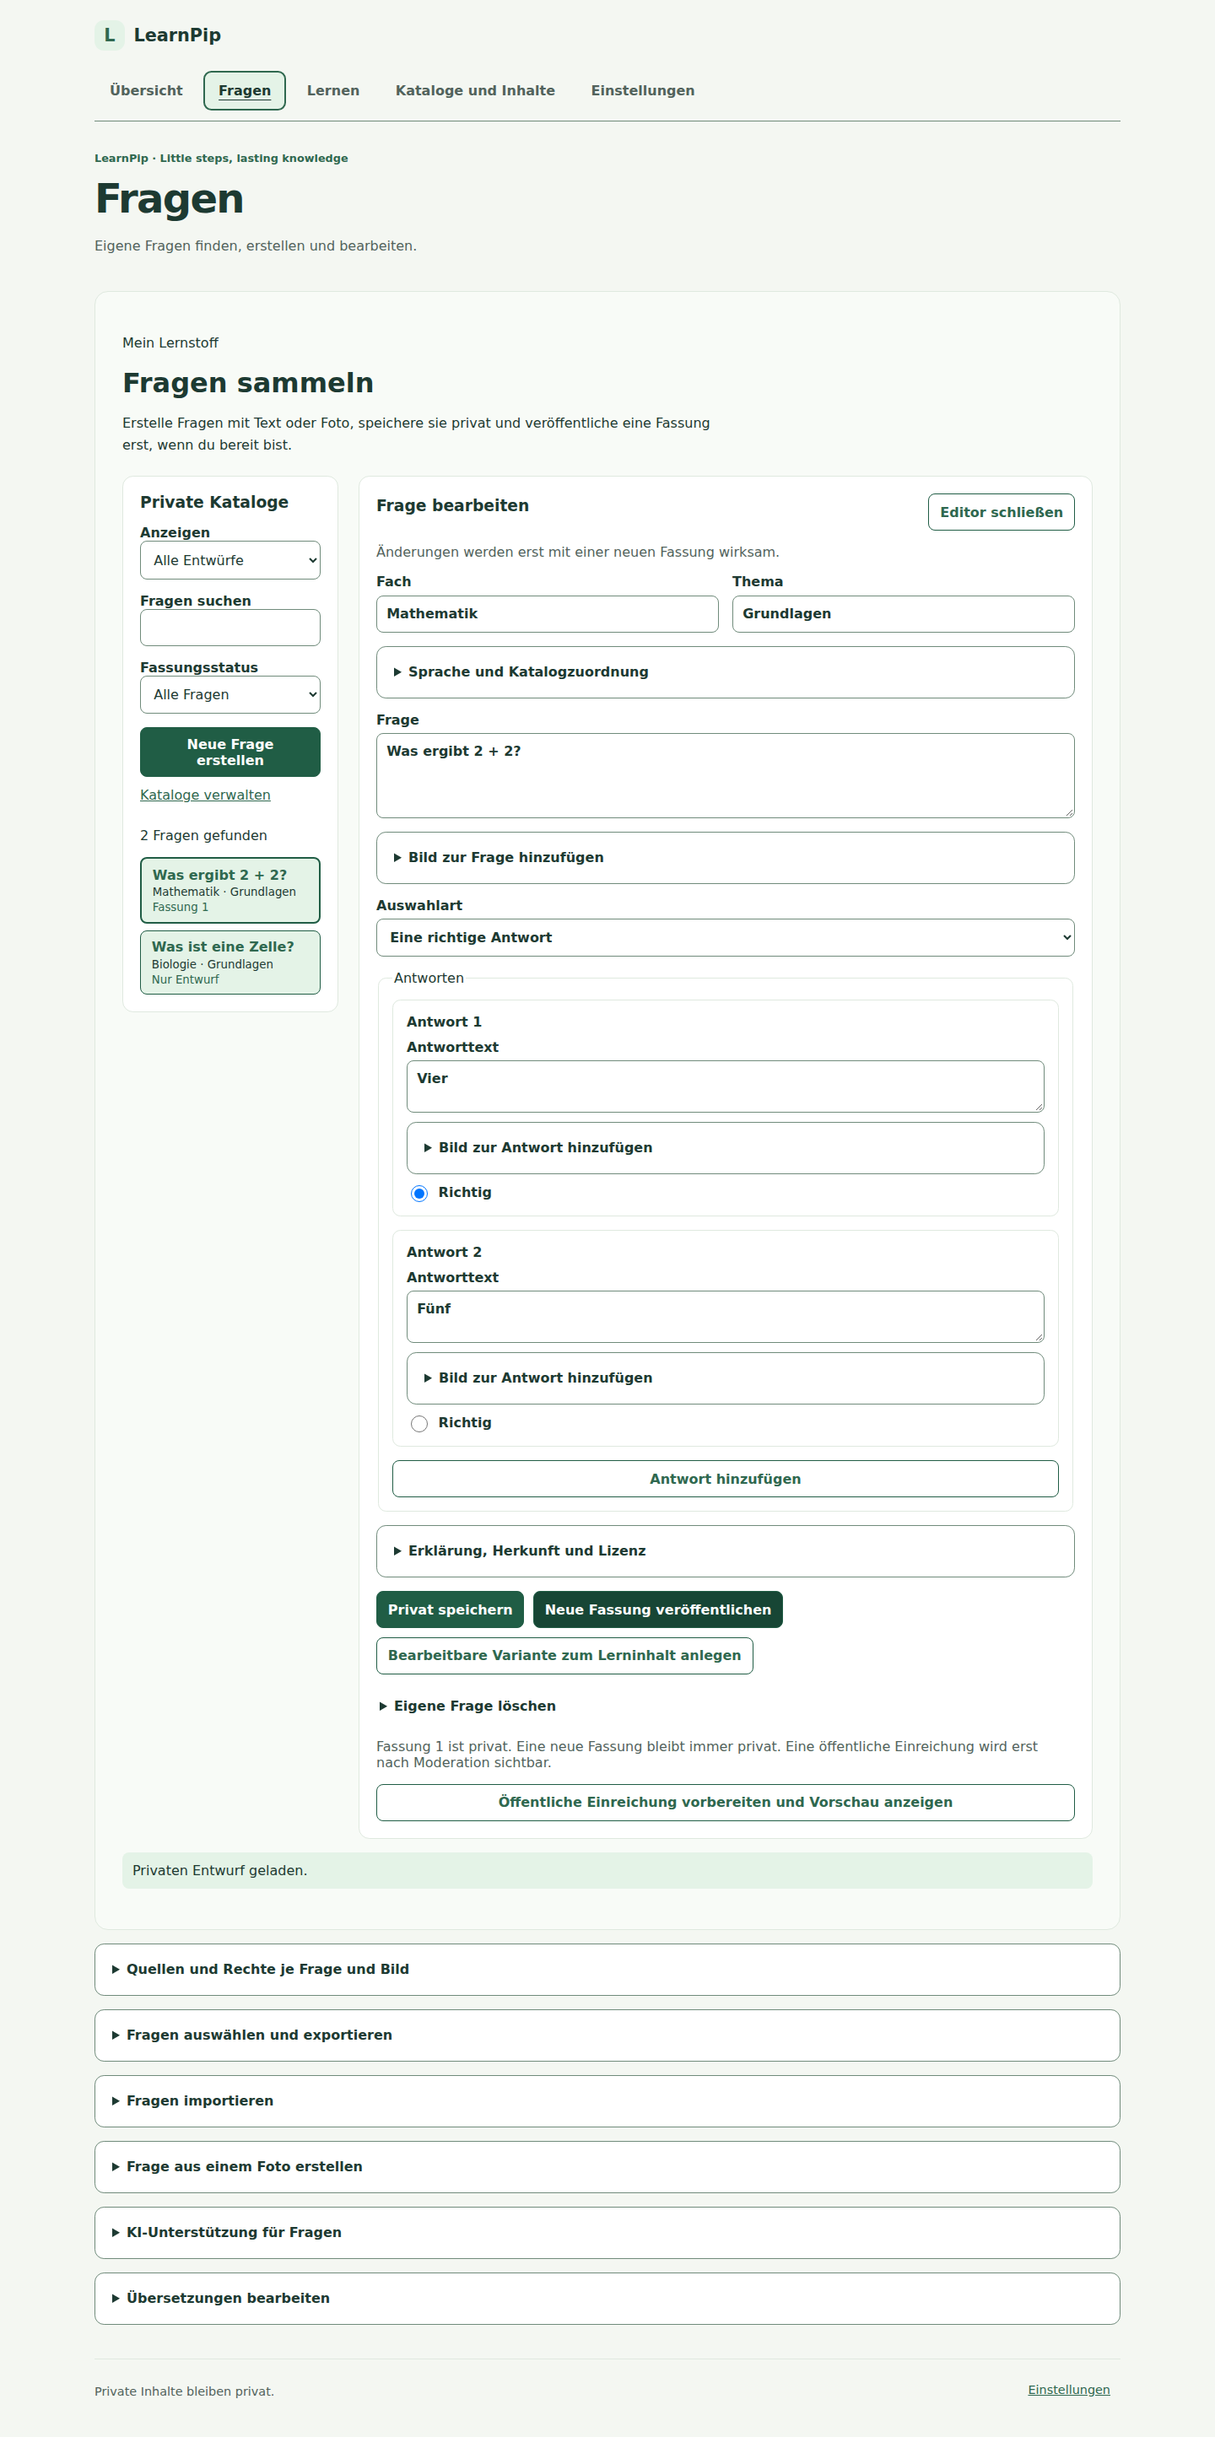
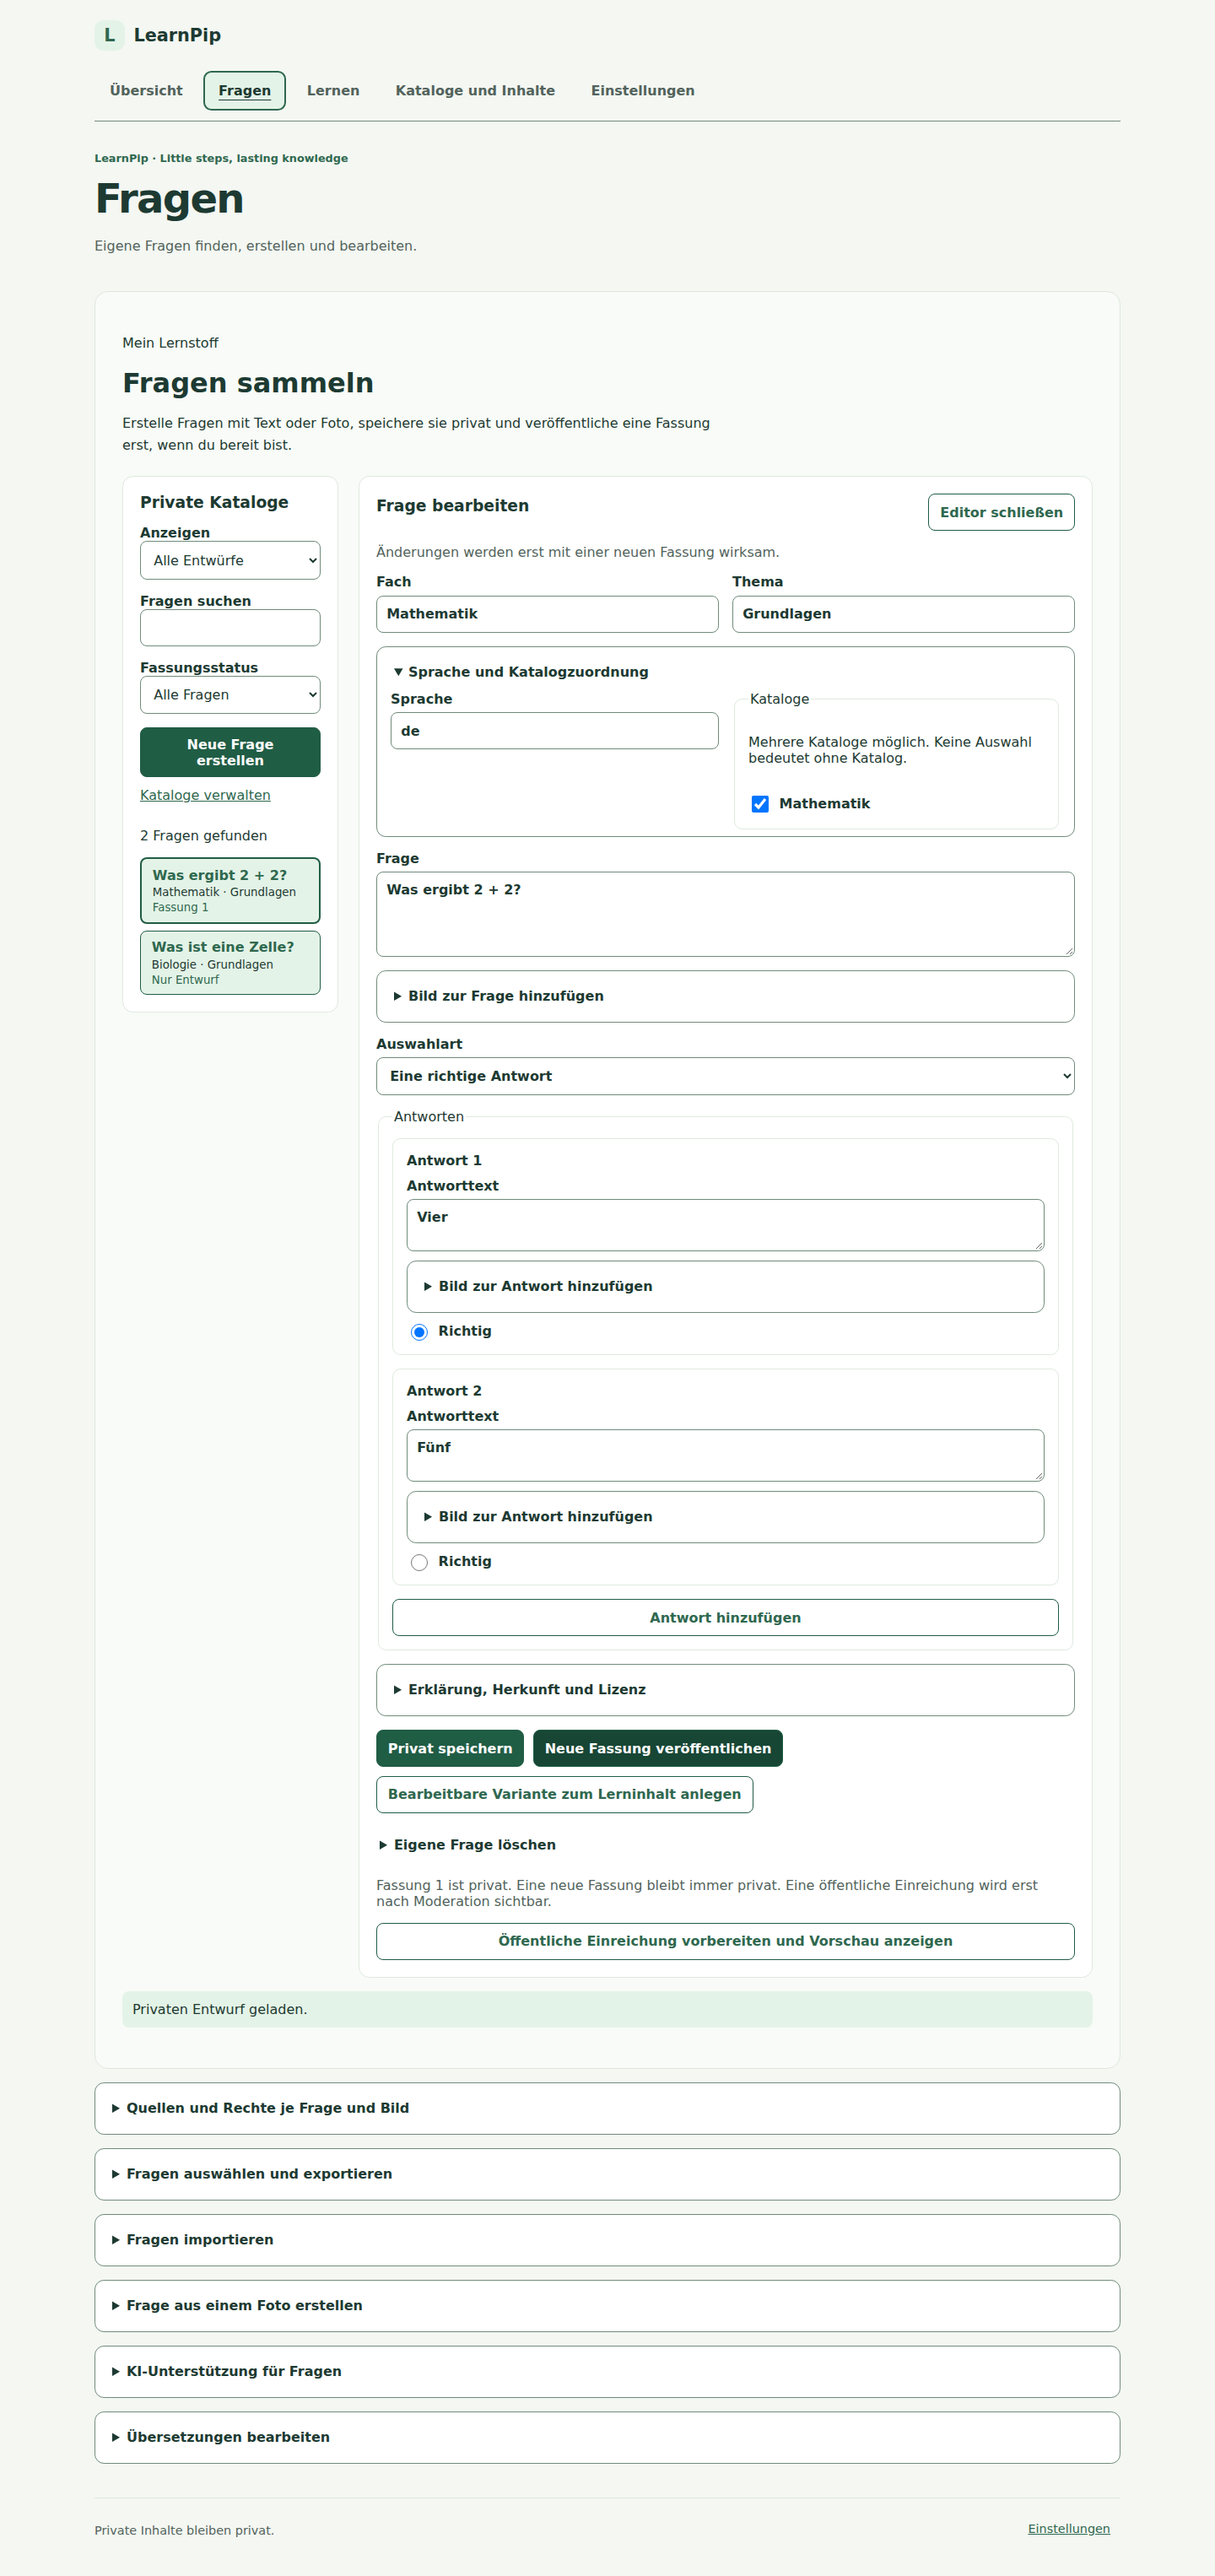
docs: document private catalogs and refresh screenshots

Changed region(s): [[0.0625, 0.0, 0.9062, 0.9657], [0.75, 0.1869, 0.875, 0.2181], [0.5, 0.0312, 0.5625, 0.0623]]

diff --git a/docs/PRIVATE-CATALOGS.md b/docs/PRIVATE-CATALOGS.md
@@ -1,0 +1,58 @@
+# Eigene Kataloge verwalten
+
+Unter **Kataloge und Inhalte** können angemeldete Benutzer ihre privaten Kataloge
+anlegen, umbenennen, beschreiben und löschen. Ein Name darf höchstens 120 Zeichen,
+eine optionale Beschreibung höchstens 2048 Zeichen enthalten. Namen sind innerhalb
+des eigenen Kontos eindeutig. Leerraum am Anfang und Ende wird entfernt.
+
+Eine Frage kann gleichzeitig mehreren privaten Katalogen angehören. Im Editor
+stehen die Kataloge unter **Sprache und Katalogzuordnung** als Mehrfachauswahl bereit.
+Keine Auswahl bedeutet „ohne Katalog“. In **Katalog bearbeiten → Fragen zuordnen**
+lassen sich vorhandene eigene Fragen hinzufügen oder entfernen. Dabei bleiben
+andere Zuordnungen, Fragenfassungen und Lernstände erhalten. Es entstehen keine
+Kopien der Fragen. Je Frage sind höchstens 100 Katalogzuordnungen möglich.
+
+Die Katalogauswahl beim Lernen berücksichtigt auch zusätzliche Zuordnungen.
+Innerhalb der Auswahl bleiben die vorhandene Wiederholungsgewichtung und die
+Auswahl einer Variante je Lerninhalt erhalten. Die Fragenliste und die lokale
+Exportauswahl filtern ebenfalls nach allen Zuordnungen. Eine Gruppenfreigabe
+übernimmt wie bisher die zum Freigabezeitpunkt verfügbaren Fragenfassungen.
+Eine Katalogzuordnung veröffentlicht keine Frage und gibt keine Inhalte frei.
+
+Beim Löschen eines Katalogs werden ausschließlich der Katalog und seine Zuordnungen
+entfernt. Fragen, Entwürfe, Fassungen und Lernergebnisse bleiben erhalten; Fragen
+können anschließend weiterhin über andere Kataloge oder „ohne Katalog“ gefunden werden.
+Auch Administratoren können über diese privaten Endpunkte keine fremden Kataloge
+oder Fragen bearbeiten. Für Zuordnungsänderungen wird das Rollenrecht `editOwn`
+benötigt, für das Anzeigen eigener Fragen `readOwn`.
+
+## API und bestehende Installationen
+
+Alle Endpunkte verwenden die angemeldete Identität; fremde Kataloge oder Fragen
+werden nicht als bearbeitbare Ressourcen offengelegt.
+
+| Endpunkt | Verhalten |
+| --- | --- |
+| `GET /api/v1/catalogs/` | Eigene Kataloge mit Beschreibung und eindeutiger Fragenanzahl |
+| `POST /api/v1/catalogs/` | Katalog mit `name` und optionalem `description` anlegen |
+| `PUT /api/v1/catalogs/{id}` | Name und Beschreibung ersetzen |
+| `DELETE /api/v1/catalogs/{id}` | Katalog löschen, Fragen erhalten |
+| `GET /api/v1/catalogs/questions` | Eigene Fragen einschließlich aller `catalogIds`, auch Entwürfe |
+| `GET /api/v1/catalogs/{id}/questions` | Fragen des gewählten eigenen Katalogs |
+| `PUT /api/v1/catalogs/{id}/questions/{questionId}` | Einzelne Zuordnung idempotent hinzufügen |
+| `DELETE /api/v1/catalogs/{id}/questions/{questionId}` | Einzelne Zuordnung idempotent entfernen |
+
+Entwurfsanlage und -speicherung akzeptieren `catalogIds` als vollständige Auswahl.
+`[]` entfernt alle Zuordnungen. Fehlt `catalogIds`, wird das bisherige Feld
+`catalogId` als Einzelzuordnung verwendet; die frühere Verschiebe-API ersetzt
+weiterhin die gesamte Auswahl durch einen Einzelkatalog oder keine Zuordnung.
+In Antworten bleibt `catalogId` für ältere Clients erhalten; neue Clients verwenden
+`catalogIds`. Alte Clients können zusätzliche Zuordnungen deshalb beim Speichern
+ersetzen. Gleichzeitige Einzelzuordnungen werden je Frage serialisiert.
+
+Die Migration `CatalogMultipleMemberships` ergänzt die Beschreibung und die
+n:m-Tabelle und übernimmt bestehende `PrivateCatalogId`-Werte. Das alte Feld bleibt
+für kompatible Leser erhalten. Paketimporte ordnen auch wiederverwendete Fragen
+dem Zielkatalog zu, ohne andere Mitgliedschaften zu entfernen. Ein Zurücksetzen
+der Migration entfernt zusätzliche Zuordnungen und Beschreibungen; vor einem
+Rollback ist eine Datenbanksicherung erforderlich.

diff --git a/docs/API.md b/docs/API.md
@@ -120,10 +120,15 @@ gewählten Optionen werden einzeln in `StudyAttemptSelections` gespeichert.
 `GET /api/v1/catalogs/{id}/questions` verwalten ausschließlich die Kataloge
 des angemeldeten Kontos. Das Löschen eines Katalogs löst seine Zuordnungen;
 Fragen und ihre Fassungen bleiben erhalten. Ein Katalogname ist pro Konto
-eindeutig.
+eindeutig und auf 120 Zeichen begrenzt. `description` ist optional und darf
+höchstens 2048 Zeichen enthalten.
 
 `POST /api/v1/questions/drafts` und `PUT /api/v1/questions/{id}/draft`
-speichern `{ "content": <QuestionPublishRequest>, "catalogId": null | "uuid" }`.
+speichern `{ "content": <QuestionPublishRequest>, "catalogIds": ["uuid", "uuid"] }`.
+Die vollständige Auswahl ersetzt alle bisherigen Zuordnungen; ein leeres Array
+entfernt sie. Fehlt `catalogIds`, wird `catalogId` weiterhin als Einzelzuordnung
+verwendet. Entwurfsantworten enthalten beide Felder. Mehrfachzuordnungen duplizieren
+weder die Frage noch ihren Lernfortschritt.
 Unvollständige Entwürfe sind erlaubt (bis 64 KiB JSON) und erzeugen keine
 veröffentlichte Fassung. `GET /api/v1/questions/drafts` listet nur eigene
 Entwürfe; `GET /api/v1/questions/{id}/draft` liest einen einzelnen. Mit
@@ -136,11 +141,19 @@ Fassung bleibt standardmäßig privat und wird damit nicht automatisch für
 andere Konten freigegeben. Änderungen am Entwurf verändern die bisherige
 Fassung nicht.
 
+`GET /api/v1/catalogs/questions` liefert alle eigenen Fragen einschließlich
+`catalogIds` ohne zusätzliches Exportrecht. Einzelzuordnungen lassen sich mit
+`PUT/DELETE /api/v1/catalogs/{id}/questions/{questionId}` idempotent ändern;
+alle anderen Zuordnungen bleiben bestehen. Dafür ist `editOwn` erforderlich.
+Details zu Migration, Grenzen und älteren Clients:
+[Eigene Kataloge verwalten](PRIVATE-CATALOGS.md).
+
 ## Kurze Lernsitzungen (LP-15)
 
 `POST /api/v1/learning/sessions/` mit `{ "catalogId": null | "uuid", "count": 5 }`
 startet eine Sitzung mit bis zu zehn eigenen veröffentlichten Fragen (neueste
-Fassung je Frage). Ohne Katalog werden alle eigenen Fragen verwendet. Die
+Fassung je Frage). Ein gewählter Katalog berücksichtigt sämtliche
+Mitgliedschaften; ohne Katalog werden alle eigenen Fragen verwendet. Die
 Fragenfolge und die Antwortoptionen werden für jede Sitzung einmal zufällig
 gemischt und bleiben beim erneuten Laden in derselben Reihenfolge. Entwürfe
 werden nicht berücksichtigt. Die Antwort enthält die Sitzungs-ID, Zähler und

diff --git a/docs/UI-PREVIEW.md b/docs/UI-PREVIEW.md
@@ -15,20 +15,22 @@ Darunter wird der persönliche Lernfortschritt zusammengefasst.
 
 Fragen lassen sich suchen und nach Katalog oder Fassungsstatus filtern.
 Der Editor zeigt die ausgewählte Frage und ihre Antwortmöglichkeiten.
+Unter „Sprache und Katalogzuordnung“ lassen sich mehrere private Kataloge auswählen.
 Eigene Fragen lassen sich nach Bestätigung löschen, sofern das Rollenrecht es erlaubt.
 Darunter liegen die aufklappbaren Bereiche für Quellen-/Rechteangaben, lokale Exportauswahl und Import.
 Der Export bietet kombinierte Filter, eine Lizenzvorschau und einen bestätigten
 ZIP-Download ohne öffentliche Veröffentlichung.
 
-![Frageneditor mit der Mathematikfrage „Was ergibt 2 + 2?“, den Antworten Vier und Fünf sowie Such- und Filterfeldern für eigene Fragen und aufklappbaren Bereichen für bestätigte Löschung, Quellen- und Rechteangaben, Export und Import.](screenshots/question-editor.png)
+![Frageneditor mit der Mathematikfrage „Was ergibt 2 + 2?“, den Antworten Vier und Fünf, aufgeklappter Mehrfachauswahl für Kataloge sowie Such- und Filterfeldern für eigene Fragen und aufklappbaren Bereichen für bestätigte Löschung, Quellen- und Rechteangaben, Export und Import.](screenshots/question-editor.png)
 
 ## Kataloge und Inhalte
 
 Private Kataloge bündeln eigene Fragen. Von hier aus gelangt man direkt zur
-gefilterten Fragenliste. Lokale ZIP-Fragenpakete lassen sich nach einer Vorschau
+gefilterten Fragenliste. Name und optionale Beschreibung können bearbeitet werden;
+vorhandene Fragen lassen sich ohne Kopien hinzufügen oder entfernen. Lokale ZIP-Fragenpakete lassen sich nach einer Vorschau
 und ausdrücklicher Bestätigung in einen neuen privaten Katalog importieren.
 
-![Katalogbereich im hellen Design mit optionaler Instanzpaketliste ohne automatische Auswahl, Dateiauswahl und Vorschau-Schaltfläche für den privaten ZIP-Import sowie dem Katalog Mathematik, seiner Fragenanzahl und dem Link zur Fragenliste.](screenshots/catalogs.png)
+![Katalogbereich im hellen Design mit optionaler Instanzpaketliste ohne automatische Auswahl, Dateiauswahl und Vorschau-Schaltfläche für den privaten ZIP-Import sowie dem Katalog Mathematik, optionaler Beschreibung, Link zur Fragenliste und aufgeklappter Verwaltung mit Zuordnung bestehender Fragen.](screenshots/catalogs.png)
 
 ## Lernen auf dem Smartphone
 

diff --git a/README.md b/README.md
@@ -74,6 +74,11 @@ Die ursprünglichen Meilensteine beschreiben Entwicklungsschwerpunkte, nicht den
 | M5 – Optionale KI | Konfigurierbare Cloud-/Lokal-/Aus-Betriebsarten und vorhandene KI-Funktionen; standardmäßig deaktiviert. | Betriebs- und vom Anwendungsfall abhängige Transparenz-/Rechtsprüfung (#102), keine pauschale Einsatzfreigabe. |
 | M6 – Ausbau | Responsive/PWA-Oberfläche, Betriebsfunktionen und Admin-Web-Updates in wesentlichen Teilen vorhanden. | Weitere Zugänge, Verteilung von Katalogen und Betriebs-/Sicherheitsnachweise (#95–#107, #96/#97). |
 
+**Private Kataloge:** Name und optionale Beschreibung sind bearbeitbar. Eine Frage
+kann mehreren Katalogen angehören; die Auswahl im Editor, in der Verwaltung und
+beim Lernen berücksichtigt alle Zuordnungen. Das Löschen eines Katalogs erhält
+Fragen und Lernstände. Details: [Eigene Kataloge verwalten](docs/PRIVATE-CATALOGS.md).
+
 **Austausch von Katalogen:** Private ZIP-Importe, selektive Exporte, optionale
 Pakete für die ganze Instanz und bestätigte Updates sind vorhanden. Neue Exporte
 verwenden den stabilen Vertrag 1.0.0; die alten Entwürfe können weiterhin importiert
